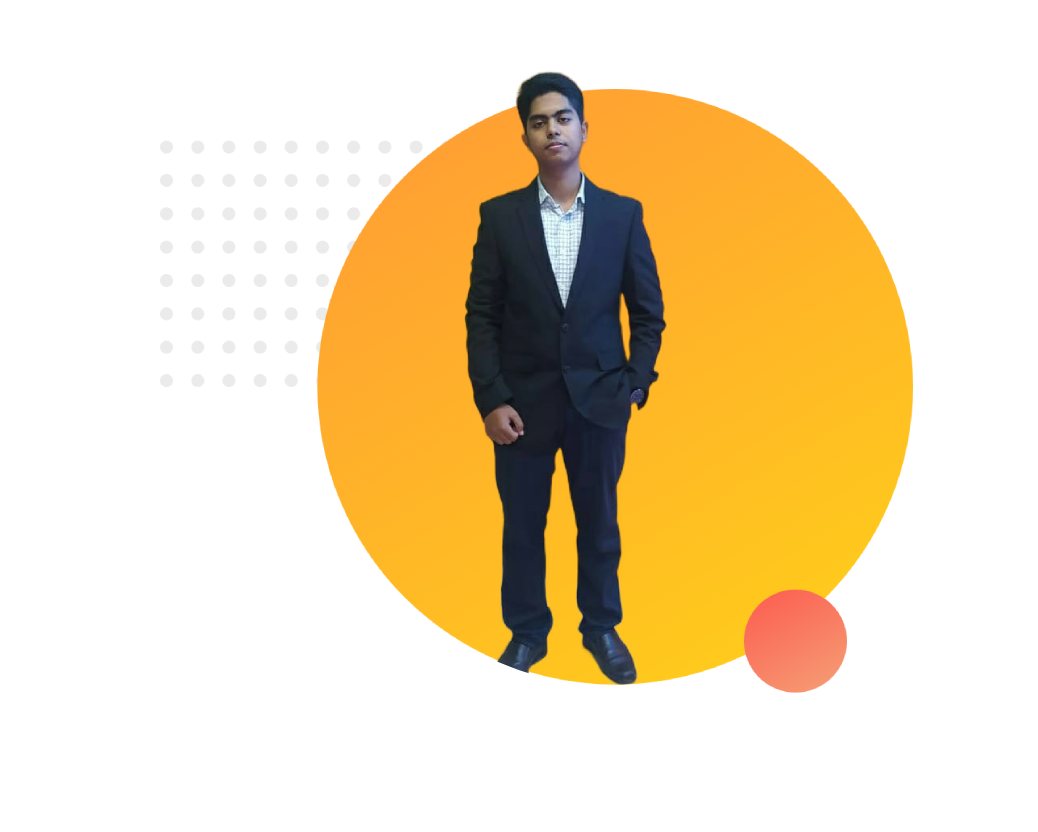
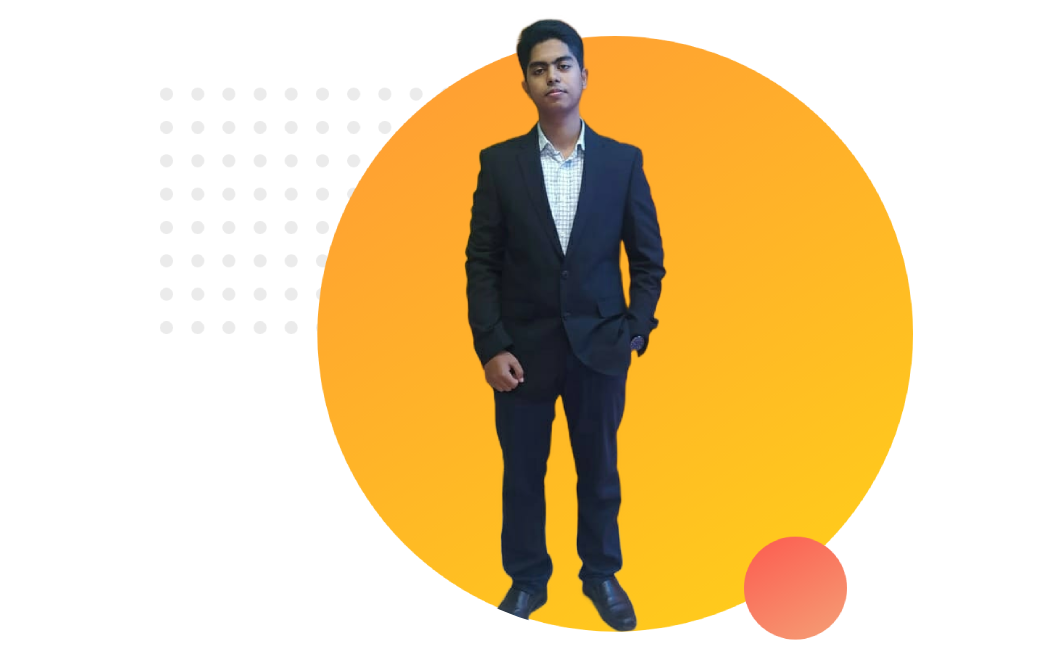
half done

diff --git a/index.html b/index.html
@@ -11,13 +11,13 @@
     <link href="https://fonts.googleapis.com/css2?family=Cinzel:wght@600&display=swap" rel="stylesheet">
 </head>
 <body>
-<section>
+<section class="top-banner">
 
   <div class="First">
     <h1>  Hello!</h1>
     <h1>It's <span class="intro">Ridwan Hamid Khan</span></h1>
-    <h3>Professional Web-Developer</h3>
-    <p>Are you searching for a professional web developer for your desire website?? Dont be worried.Ridwan is here to help you.Btw you can call me "Pro dev".I'm very dedicated to my client.If you want to hire me,click the button bellow...</p>
+    <h2>Professional Web-Developer</h2>
+    <p>Are you searching for a professional web developer for your desire website?? Dont be worried.Ridwan is here to help you.Btw you can call me "Pro dev".If you want to hire me,click the button bellow...</p>
     <a class="button" target="_blank"  href="https://www.linkedin.com/in/ridwan-hamid-khan-24450a241/">Need Me?</a>
   </div>
 
@@ -25,6 +25,20 @@
     <img src="ridwan-1.png" alt="">
   </div>
 
+</section>
+
+<section class="Me">    
+
+<div class="First">
+  <img class="second-img" src="cox-flex.png" alt="">
+</div>
+
+<div class="First">
+<h2>Why Me</h2>
+
+<p>I'm very dedicated to my client.I'm also determined to finish my work in all circumstances.Tag line that I used to believe,</p>
+ <p> <span class="tag-line">"Your website , My responsiblity".</span></p>
+ </div>
 </section>
     
 </body>

diff --git a/style.css b/style.css
@@ -1,4 +1,5 @@
 body{
+    margin: 0;
     font-family: 'Cinzel', serif;
 }
 h1{
@@ -10,17 +11,41 @@ span.intro{
 div.First{
     width: 40%;
     float: left;
-    margin-left: 4%;
+    margin-left: 5%;
     padding-left: 2%;
+
 }
 .First img{
-    width: 100%;
+    width: 110%;
 }
-a.button{
+.button{
     background-image: linear-gradient(45deg,gold,goldenrod);
     text-decoration: none;
     padding: 10px 20px;
     border-radius: 10px;
     color: aliceblue;
-    font-weight: bold;
+    font-weight: bolder;
 }
+.top-banner{
+    background-image: url("top-banner.png");
+    background-repeat: no-repeat;
+}
+section{
+    height: 500px;
+    
+}
+.tag-line{
+    font-weight: 900;
+    color: orange;
+    font-size: 120%;
+}
+
+.First .second-img{
+    width: 90%;
+    padding-top: 0%;
+
+}
+.Me .First h2{
+    padding-top: 5%;
+}
+
